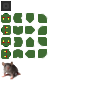
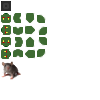
Добавил элементы тнтерфейса, но пока не натсроил их. Подкорректировал спрайт. Сделал кнопки старта и паузы.

diff --git a/lesson7/js/snake.js b/lesson7/js/snake.js
@@ -108,15 +108,77 @@ const snakeDraw = {
 		divSnakeBlock.appendChild(snakeDraw.canvas);
 		const divHUD = document.createElement('div');
 		divHUD.setAttribute('class', 'snake-block__HUD');
+
+		const divLives = document.createElement('div');
+		divLives.setAttribute('class', 'snake-block__HUD-lives');
+		const divLivesImg = document.createElement('div');
+		divLivesImg.setAttribute('class', 'snake-block__HUD-lives-img');
+		divLives.appendChild(divLivesImg);
+		const divLivesNumber = document.createElement('p');
+		divLivesNumber.setAttribute('class', 'snake-block__HUD-lives-number');
+		divLivesNumber.textContent = '3';
+		divLives.appendChild(divLivesNumber);
+		divHUD.appendChild(divLives);
+
+		const divScore = document.createElement('p');
+		divScore.setAttribute('class', 'snake-block__HUD-score');
+		divScore.textContent = 'Score 0';
+		divHUD.appendChild(divScore);
+
+		const divLevel = document.createElement('p');
+		divLevel.setAttribute('class', 'snake-block__HUD-level');
+		divLevel.textContent = 'Level 1';
+		divHUD.appendChild(divLevel);
+
+		const btnStart = document.createElement('button');
+		btnStart.setAttribute('id', 'snake-block__HUD-btn-start');
+		btnStart.setAttribute('class', 'snake-block__HUD-btn');
+		btnStart.textContent = 'Start (F2)';
+		btnStart.addEventListener('click', startGame);
+		divHUD.appendChild(btnStart);
+
+		const btnPause = document.createElement('button');
+		btnPause.setAttribute('id', 'snake-block__HUD-btn-pause');
+		btnPause.setAttribute('class', 'snake-block__HUD-btn');
+		btnPause.textContent = 'Pause (Space)';
+		btnPause.addEventListener('click', game.keyboard.pause.pauseFunction);
+		divHUD.appendChild(btnPause);
+
 		divSnakeBlock.appendChild(divHUD);
 		divBody.appendChild(divSnakeBlock);
 	},
 
+	createSettings: () => { // задаются вычисляемые свойства объектов
+		snakeDraw.canvas.height = 500;
+		snakeDraw.canvas.width = 500;
+
+		snakeDraw.ctx = snakeDraw.canvas.getContext('2d');
+
+		snakeDraw.greed.maxCellX = Math.floor(snakeDraw.canvas.width / snakeDraw.greed.cutX);
+		snakeDraw.greed.maxCellY = Math.floor(snakeDraw.canvas.width / snakeDraw.greed.cutY);
+
+		snakeDraw.mainSprait = new Image();
+		snakeDraw.mainSprait.onload = () => {
+			game.keyboard.start = document.addEventListener('keydown', () => {
+				if (event.keyCode === 113) {
+					startGame();
+				}
+			});
+		};
+		snakeDraw.mainSprait.src = 'images/mainSprait.png';
+	},
+
 	animation: {
 		init: () => {
+			if (snakeDraw.animation.timerStep) {
+				clearInterval(snakeDraw.animation.timerStep);
+			}
 			snakeDraw.animation.timerStep = setInterval(() => {
 				game.nextFame();
 			}, 200);
+			if (snakeDraw.animation.request) {
+				cancelAnimationFrame(snakeDraw.animation.request);
+			}
 			snakeDraw.animation.loopDraw();
 		},
 
@@ -144,28 +206,22 @@ const snakeDraw = {
 	},
 };
 
-const createSettings = () => { // задаются вычисляемые свойства объектов
-	snakeDraw.canvas.height = 500;
-	snakeDraw.canvas.width = 500;
-
-	snakeDraw.ctx = snakeDraw.canvas.getContext('2d');
-
-	snakeDraw.mainSprait = new Image();
-	snakeDraw.mainSprait.src = 'images/mainSprait.png';
-
-	snakeDraw.greed.maxCellX = Math.floor(snakeDraw.canvas.width / snakeDraw.greed.cutX);
-	snakeDraw.greed.maxCellY = Math.floor(snakeDraw.canvas.width / snakeDraw.greed.cutY);
+const startGame = () => {
+	game.settings.vx = 0;
+	game.settings.vy = -1;
+	game.settings.direct = 'top';
+	game.settings.score = 0;
+	game.settings.lives = 3;
+	game.mouse.state = [];
+	game.keyboard.state = true;
+	game.keyboard.pause.state = true;
+	game.snake.startState(); // задаем стартовое положение змейки по центру экрана
+	game.mouse.startState(); // задаем стартовое положение мышки рандомно
+	snakeDraw.animation.init(); // запускаем анимацию
+	document.querySelector('body').focus();
 };
 
 window.onload = () => {
-	createSettings();
-
+	snakeDraw.createSettings();
 	snakeDraw.createInterface();
-
-	game.snake.startState(); // задаем стартовое положение змейки по центру экрана
-	game.mouse.startState(); // задаем стартовое положение мышки рандомно
-
-	snakeDraw.mainSprait.onload = () => { // запускаем анимацию
-		snakeDraw.animation.init();
-	};
 };

diff --git a/lesson7/css/snake.css b/lesson7/css/snake.css
@@ -1,9 +1,13 @@
+* {
+	margin: 0;
+	padding: 0;
+}
+
 body {
 	align-items: center;
 	display: flex;
 	flex-flow: row nowrap;
 	justify-content: center;
-	margin: 0;
 	height: 100vh;
 }
 
@@ -25,11 +29,82 @@ body {
 }
 
 .snake-block__HUD {
+	align-items: center;
 	background: black;
 	border: 1px solid #000000;
 	box-sizing: border-box;
+	display: flex;
+	flex-flow: column nowrap;
+	justify-content: space-around;
 	float: left;
 	margin: 20px 20px 20px 0;
 	height: 500px;
+	padding: 20px;
 	width: 200px;
 }
+
+	.snake-block__HUD-lives {
+		align-items: center;
+		display: flex;
+		flex: 0 0 auto;
+		flex-flow: row nowrap;
+		justify-content: flex-start;
+		height: 40px;
+	}
+
+		.snake-block__HUD-lives-img {
+			background: url(../images/heart.png) no-repeat;
+			background-size: contain;
+			height: 35px;
+			width: 35px;
+		}
+
+		.snake-block__HUD-lives-number {
+			color: #ffffff;
+			height: 80%;
+			font-size: 2rem;
+			margin-left: 10px;
+			text-align: left;
+		}
+
+	.snake-block__HUD-score {
+		color: #ffffff;
+		flex: 0 0 auto;
+		font-size: 2rem;
+		height: 40px;
+		text-align: center;
+		width: 100%;
+	}
+
+	.snake-block__HUD-level {
+		color: #ffffff;
+		flex: 0 0 auto;
+		font-size: 2rem;
+		height: 40px;
+		text-align: center;
+		width: 100%;
+	}
+
+	.snake-block__HUD-btn {
+		background: #142c3a; /* Old browsers */
+		background: -moz-radial-gradient(center, ellipse cover, #142c3a 10%, #28343b 40%, #444a4c 70%, #828c95 96%, #b5bdc8 100%);
+		background: -webkit-radial-gradient(center, ellipse cover, #142c3a 10%,#28343b 40%,#444a4c 70%,#828c95 96%,#b5bdc8 100%);
+		background: radial-gradient(ellipse at center, #142c3a 10%,#28343b 40%,#444a4c 70%,#828c95 96%,#b5bdc8 100%);
+		border: 1px solid #b5bdc8;
+		border-radius: 20px;
+		color: #ffffff;
+		cursor: pointer;
+		flex: 0 0 auto;
+		font-size: 1rem;
+		height: 40px;
+		outline: none;
+		width: 100%;
+	}
+
+	.snake-block__HUD-btn:active {
+		background: #142c3a;
+		background: -moz-radial-gradient(center, ellipse cover, #142c3a 10%, #28343b 30%, #444a4c 60%, #828c95 80%, #50535e 100%);
+		background: -webkit-radial-gradient(center, ellipse cover, #142c3a 10%,#28343b 30%,#444a4c 60%,#828c95 80%,#50535e 100%);
+		background: radial-gradient(ellipse at center, #142c3a 10%,#28343b 30%,#444a4c 60%,#828c95 80%,#50535e 100%);
+		border: 1px solid #8f97a2;
+	}

diff --git a/lesson7/js/engine.js b/lesson7/js/engine.js
@@ -17,7 +17,6 @@ class UNAVAILABLESECTOR {
 	}
 }
 
-
 const game = {
 	unavailableSector: {
 		state: [],
@@ -42,6 +41,12 @@ const game = {
 	keyboard: {
 		pause: {
 			down: document.addEventListener('keydown', () => {
+				game.keyboard.pause.pauseFunction();
+			}),
+
+			state: true,
+
+			pauseFunction: () => {
 				if (event.keyCode === 32) {
 					if (game.keyboard.pause.state) {
 						clearInterval(snakeDraw.animation.timerStep);
@@ -54,37 +59,45 @@ const game = {
 						snakeDraw.animation.init();
 					}
 				}
-			}),
-
-			state: true,
+			}
 		},
 
 		changeDirect: document.addEventListener('keydown', () => {
 			if (game.keyboard.state){
 				switch (event.keyCode) {
 					case 38:
-						game.settings.direct = 'top';
-						game.settings.vx = 0;
-						game.settings.vy = -1;
+						if (game.settings.direct !== 'bottom') {
+							game.settings.direct = 'top';
+							game.settings.vx = 0;
+							game.settings.vy = -1;
+						}
 						break;
 					case 37:
-						game.settings.direct = 'left';
-						game.settings.vx = -1;
-						game.settings.vy = 0;
+						if (game.settings.direct !== 'right') {
+							game.settings.direct = 'left';
+							game.settings.vx = -1;
+							game.settings.vy = 0;
+						}
 						break;
 					case 40:
-						game.settings.direct = 'bottom';
-						game.settings.vx = 0;
-						game.settings.vy = 1;
+						if (game.settings.direct !== 'top') {
+							game.settings.direct = 'bottom';
+							game.settings.vx = 0;
+							game.settings.vy = 1;
+						}
 						break;
 					case 39:
-						game.settings.direct = 'right';
-						game.settings.vx = 1;
-						game.settings.vy = 0;
+						if (game.settings.direct !== 'left') {
+							game.settings.direct = 'right';
+							game.settings.vx = 1;
+							game.settings.vy = 0;
+						}
 						break;
 				}
 			}
 		}),
+
+		start: undefined,
 
 		state: true,
 	},
@@ -94,6 +107,7 @@ const game = {
 		vy: -1,
 		direct: 'top',
 		score: 0,
+		lives: 3
 	},
 
 	snake: {
